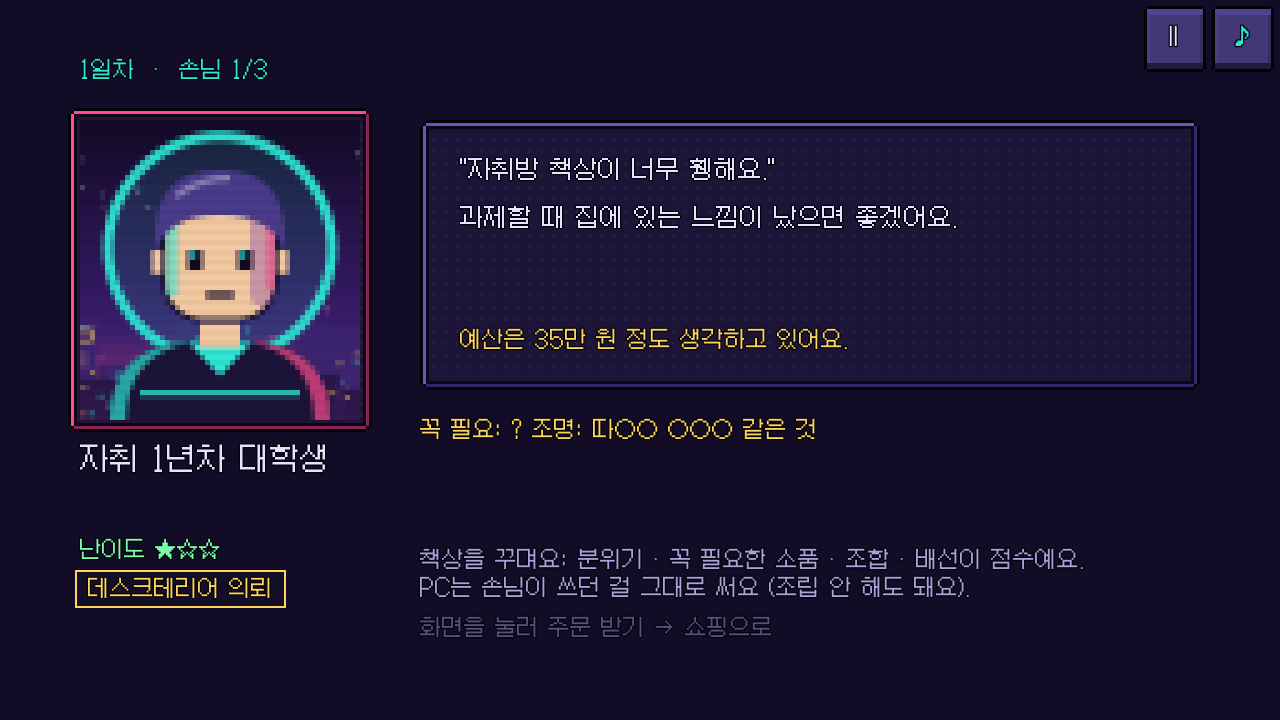
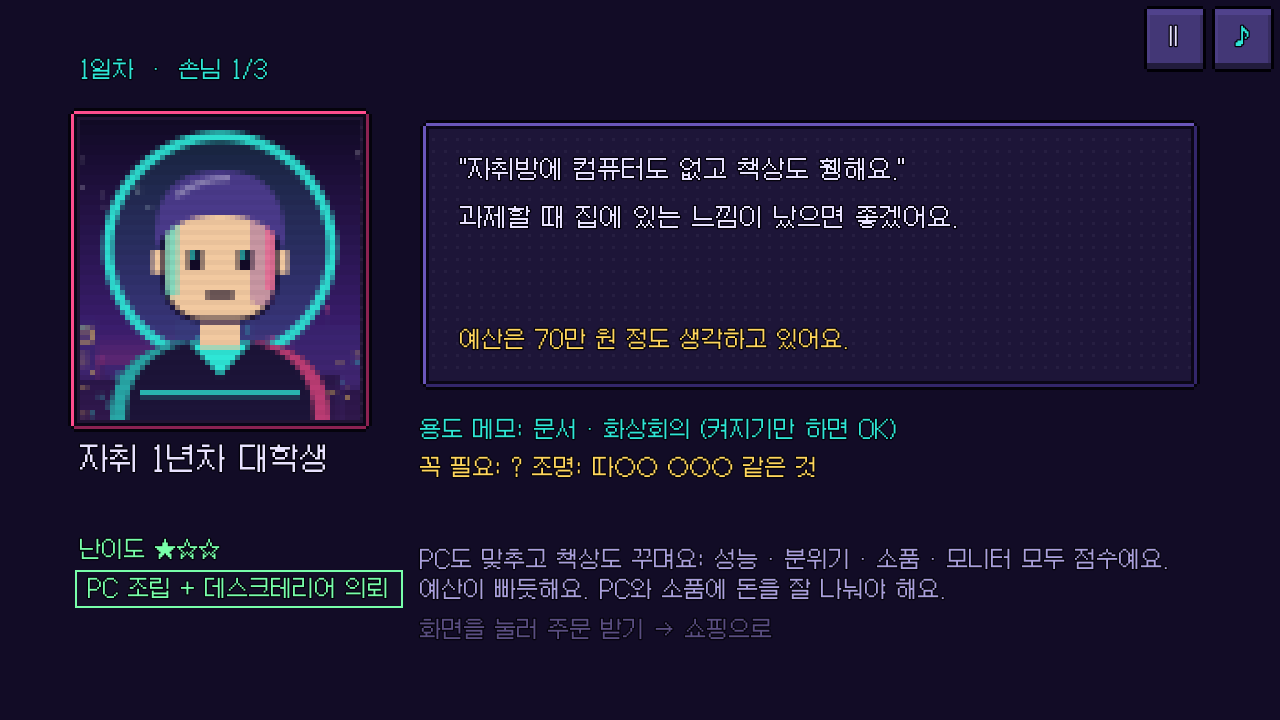
의뢰 종류를 둘로: PC 조립 + 데스크테리어 / 고장 수리. 예산 빠듯하게
- PC 조립 · 데스크테리어 의뢰를 'PC 조립 + 데스크테리어' 하나로 합침 (채점: 성능 · 분위기 · 소품 · 모니터 · 배선)
- 손님 PC를 그대로 쓰던 데스크테리어 전용 흐름(조립 탭 숨김 · 책상 공개 장면 · 기존 모니터/키보드) 제거
- 예산 = 조건을 겨우 맞추는 최저 구성 값 × 1.3 (5만 단위), 별당 팁 5~12% → 3~7%

diff --git a/README.md b/README.md
@@ -20,7 +20,7 @@
 - **사진 앨범**: 납품할 때 책상 사진이 자동 저장되고 P로 직접 촬영. 타이틀 → 앨범에서 모아 보기
 - **소리**: 직접 합성한 효과음 15종 + 배경음 1곡 (M = 음소거)
 - **쇼핑 (데스크몰)**: 소품 57종 · PC 부품 37종. 카테고리 → 상품 카드 → 상세 페이지(사양 · 설명 · 수량) → 장바구니 → 결제 → 영수증 → 창고로 배송. 남은 물건은 창고에 남아 다음 주문에 씀 (반품은 반값)
-- **마진**: 손님은 자기 예산을 그대로 내고(별 1개당 팁 추가, 별 0개면 0원), 물건 값은 가게가 냄. 조건만 맞추면 싸게 할수록 전부 마진. 예산을 넘는 구성은 손님이 거절
+- **마진**: 손님은 자기 예산을 그대로 내고(별 1개당 팁 추가, 별 0개면 0원), 물건 값은 가게가 냄. 예산은 조건을 맞추는 최저 구성의 1.3배 정도라 빠듯함 → 마진은 알뜰 구매 · 팁에서. 예산을 넘는 구성은 손님이 거절
 - **성장**: 받은 별이 쌓이면 가게 레벨업 → 팁 비율 상승 · 게이밍 라인(Lv2) · 하이엔드 부품(Lv3) 업그레이드 구매 가능
 - **PC 조립 (드래그 앤 드롭, 실제 순서)**: 케이스 → 메인보드 → 소켓 레버 열기 → CPU → 레버 닫기 → 서멀 구리스 → 쿨러 → RAM → M.2 SSD → 그래픽카드 → 파워 → 전원선(24핀 · CPU 8핀 · GPU 8핀) → 케이스 전원 버튼선. 소켓(AM/LGA) · 보드 크기 · 그래픽카드 길이 · 쿨러 높이가 안 맞으면 안 들어감. 전원 테스트는 디버그 LED(CPU → DRAM → VGA → BOOT)로 막힌 곳을 알려 줌
 - **배선**: 모니터는 DP(그래픽카드가 개수 결정), USB 기기는 USB(메인보드가 개수 결정), 스피커 · 헤드셋은 오디오. 무선 기기는 USB 동글을 꽂음(선 없음). 선이 꼬이면 감점
